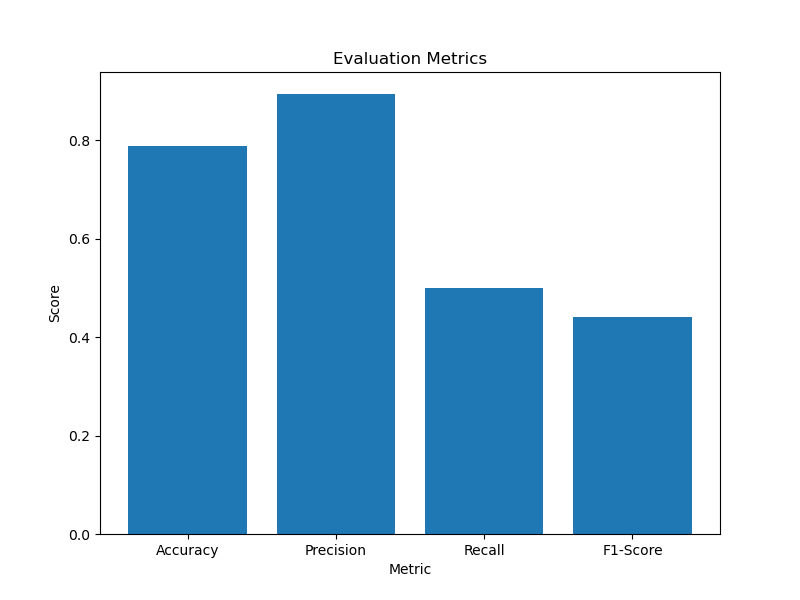
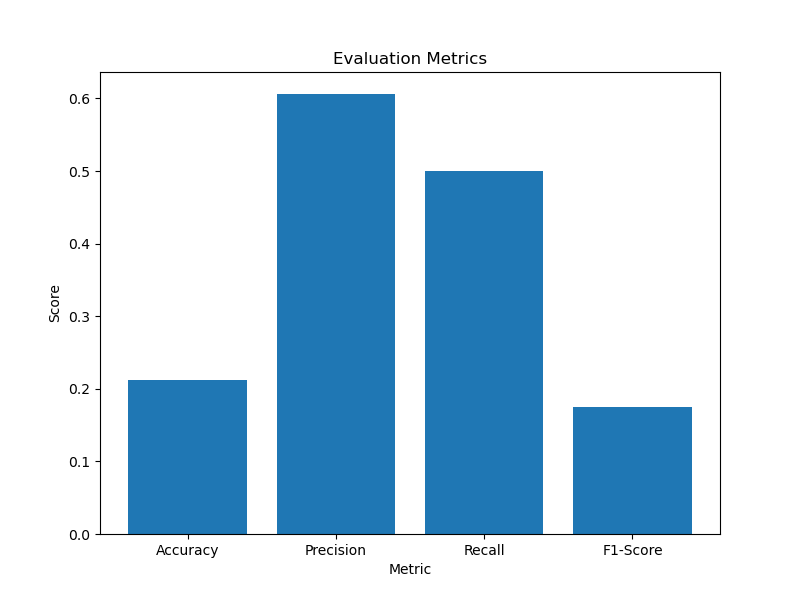
changed environment.yml

diff --git a/results/aspect_classification/TinyBERT_General_4L_312D_classification_report.tex b/results/aspect_classification/TinyBERT_General_4L_312D_classification_report.tex
@@ -2,6 +2,6 @@
 \toprule
  Accuracy &  Precision &   Recall &  F1-Score \\
 \midrule
- 0.129771 &   0.054617 & 0.147722 &  0.074978 \\
+ 0.634146 &   0.285256 & 0.290385 &  0.263736 \\
 \bottomrule
 \end{tabular}

diff --git a/results/sentiment_classification/TinyBERT_General_4L_312Dsenitment_classification_report.tex b/results/sentiment_classification/TinyBERT_General_4L_312Dsenitment_classification_report.tex
@@ -2,6 +2,6 @@
 \toprule
  Accuracy &  Precision &  Recall &  F1-Score \\
 \midrule
- 0.787611 &   0.893805 &     0.5 &  0.440594 \\
+ 0.212389 &   0.606195 &     0.5 &  0.175182 \\
 \bottomrule
 \end{tabular}
